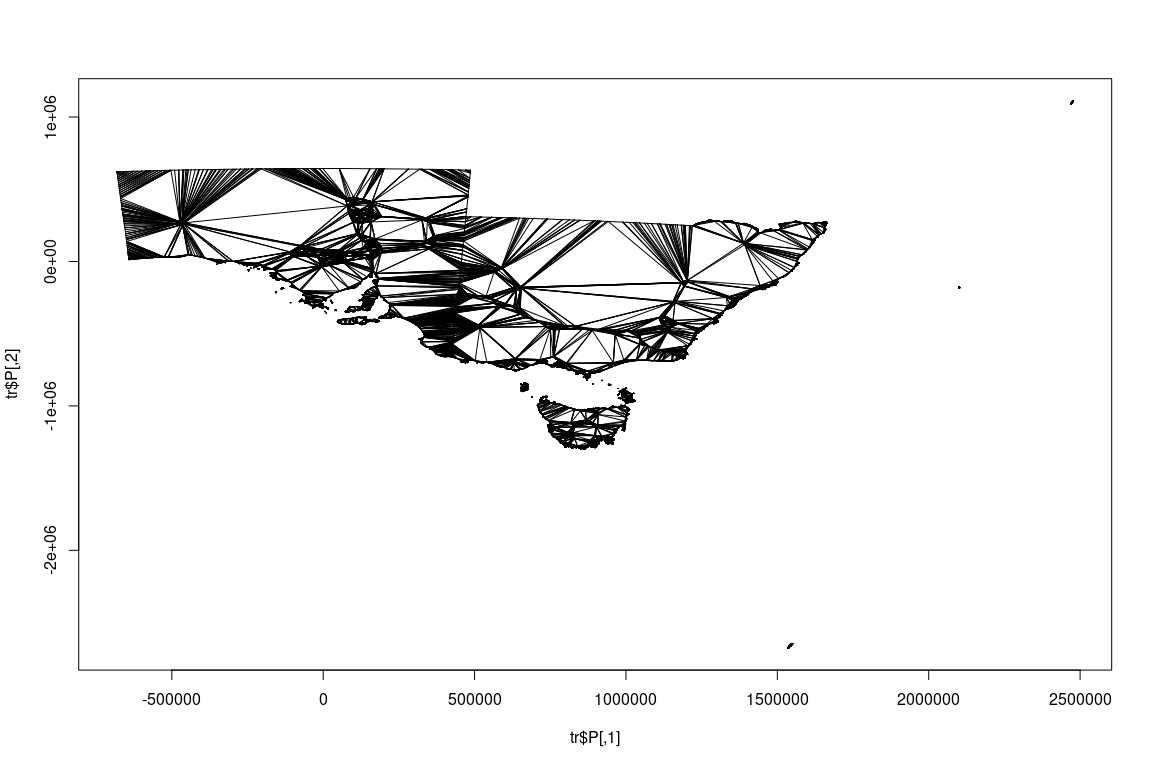
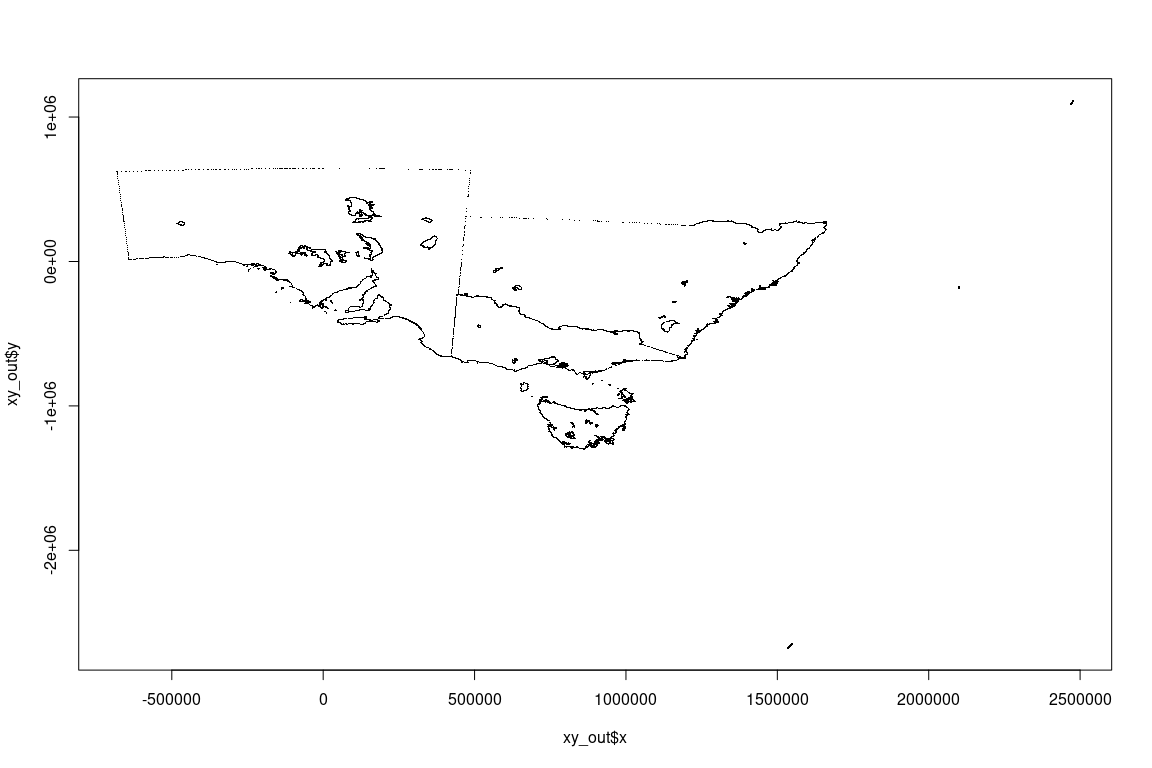
insert_mesh() now outputs x,y

Changed region(s): [[0.0938, 0.2188, 0.7188, 0.5938], [0.0, 0.4375, 0.0312, 0.5312], [0.5, 0.9375, 0.5625, 0.9688]]

diff --git a/src/insert_mesh.cpp b/src/insert_mesh.cpp
@@ -12,7 +12,7 @@ typedef CDT::Point Point;
 typedef CDT::Vertex_handle Vertex_handle;
 
 // [[Rcpp::export]]
-IntegerVector insert_mesh_cpp(NumericVector x,
+List insert_mesh_cpp(NumericVector x,
                           NumericVector y,
                           IntegerVector v0,
                           IntegerVector v1)
@@ -39,6 +39,19 @@ IntegerVector insert_mesh_cpp(NumericVector x,
   Rprintf("Number of vertices before: %i\n", cdt.number_of_vertices());
   // make it conforming Delaunay
   CGAL::make_conforming_Delaunay_2(cdt);
+
+  NumericVector xi = NumericVector(cdt.number_of_vertices());
+  NumericVector yi = NumericVector(cdt.number_of_vertices());
+
+  int i = 0;
+  for (auto itr = cdt.finite_vertices_begin(); itr != cdt.finite_vertices_end(); ++itr) {
+    //Rprintf("%f , %f\n", itr->point().x(), itr->point().y());
+    xi[i] = itr->point().x();
+    yi[i] = itr->point().y();
+    i++;
+  }
+
+
   Rprintf("Number of vertices after: %i\n", cdt.number_of_vertices());
-  return Rcpp::IntegerVector::create(NA_INTEGER);
+  return Rcpp::List::create(Named("x") = xi , _["y"] = yi);
 }

diff --git a/src/tri_xy.cpp b/src/tri_xy.cpp
@@ -22,8 +22,8 @@ typedef Face::Vertex_handle Fvertex_handle;
 // [[Rcpp::export]]
 IntegerVector tri_xy_cpp(NumericVector x, NumericVector y) {
   std::vector< std::pair<Point,int> > points;
-  for (int ipoint = 0; ipoint < x.length(); ipoint++){
-    points.push_back( std::make_pair( Point(x[ipoint], y[ipoint]), ipoint) );
+  for (int ip = 0; ip < x.length(); ip++){
+    points.push_back( std::make_pair( Point(x[ip], y[ip]), ip) );
   }
 
   Delaunay triangulation;
@@ -45,6 +45,7 @@ IntegerVector tri_xy_cpp(NumericVector x, NumericVector y) {
 
   return vi;
 }
+
 // [[Rcpp::export]]
 
 IntegerVector tri_xy1_cpp(NumericVector x, NumericVector y)

diff --git a/src/RcppExports.cpp b/src/RcppExports.cpp
@@ -25,7 +25,7 @@ BEGIN_RCPP
 END_RCPP
 }
 // insert_mesh_cpp
-IntegerVector insert_mesh_cpp(NumericVector x, NumericVector y, IntegerVector v0, IntegerVector v1);
+List insert_mesh_cpp(NumericVector x, NumericVector y, IntegerVector v0, IntegerVector v1);
 RcppExport SEXP _laridae_insert_mesh_cpp(SEXP xSEXP, SEXP ySEXP, SEXP v0SEXP, SEXP v1SEXP) {
 BEGIN_RCPP
     Rcpp::RObject rcpp_result_gen;

diff --git a/README.md b/README.md
@@ -6,10 +6,35 @@
 
 <!-- README.md is generated from README.Rmd. Please edit that file -->
 
+Work in progress to get constrained and conforming Delaunay
+triangulation for shapes in R with CGAL. We have
+
+-   point-only triangulation in `tri_xy()` - it’s fast
+-   segment-input constraints in `insert_mesh()` - only returns the
+    vertices, which might include new points
+-   constrained and conformal triangulations in-progress …
+
+We need:
+
+-   export of new vertex pool and its edge- or triangle-based indices
+-   proper inputs of nested polygon shapes
+-   robust dealing with segment and polygon soups, so that numeric
+    insertions are robust (and c.)
+
+We can now hit this more easily thanks to
+[cgal4h](https://CRAN.R-project.org/package=cgal4h) thanks to Ahmadou
+Dicko.
+
 `laridae` came out of a need for constrained triangulation for a
 topology-in-R project. That effort has moved on somewhat, proving the
 case by using `RTriangle` and then bedding down the normalization model
 in the `hypertidy/silicate` package.
+
+R now has [cgal4h](https://cran.r-project.org/package=cgal4h) providing
+the library infrastructure for CGAL and
+[euclid](https:://github.com/thomasp85/euclid) providing numerically
+robust geometric primitives (it’s unclear if laridae or whatever it
+becomes will use euclid).
 
 RTriangle is really fast, but it’s not as fast as CGAL. CGAL can also be
 used to update a triangulation, which means (I think) that we could
@@ -19,16 +44,18 @@ to update a mesh has a lot of applications, especially for neighbouring
 shapes, and for on-demand (extent or zoom dependent level of detail)
 tasks.
 
-We can now hit this more easily thanks to
-[cgal4h](https://CRAN.R-project.org/package=cgal4h) thanks to Ahmadou
-Dicko.
-
-The interest (which is miniscule …) in constrained triangulations is
+The interest (which seems miniscule …) in constrained triangulations is
 discussed here along with the overall landscape in R.
 
 <https://github.com/r-spatial/discuss/issues/6>
 
 ## Installation
+
+``` r
+remotes::install_github("hypertidy/laridae")
+## not universe ready yet
+#install.packages("laridae", repos = "https://hypertidy.r-universe.dev")
+```
 
 ## Triangulation
 
@@ -99,15 +126,15 @@ microbenchmark::microbenchmark(
 )
 #> Unit: microseconds
 #>                              expr      min       lq     mean   median       uq
-#>             ind_t <- tri_xy(x, y) 1003.037 1180.282 1210.524 1224.940 1259.092
-#>           ind_t1 <- tri_xy1(x, y)  957.943 1181.241 1204.754 1225.726 1251.130
-#>           ind_t2 <- tri_xy2(x, y)  980.168 1191.784 1219.096 1222.641 1260.760
-#>  RT <- RTriangle::triangulate(ps) 1653.278 1959.215 2072.064 2080.628 2167.966
+#>             ind_t <- tri_xy(x, y)  958.795 1127.766 1184.248 1202.551 1244.693
+#>           ind_t1 <- tri_xy1(x, y)  964.334 1111.205 1180.227 1187.096 1239.847
+#>           ind_t2 <- tri_xy2(x, y)  968.167 1116.894 1177.740 1199.422 1242.877
+#>  RT <- RTriangle::triangulate(ps) 1677.312 1972.573 2076.233 2078.806 2194.787
 #>       max neval cld
-#>  1395.601   100  a 
-#>  1350.535   100  a 
-#>  1422.179   100  a 
-#>  2314.977   100   b
+#>  1412.635   100  a 
+#>  1489.043   100  a 
+#>  1408.256   100  a 
+#>  2371.038   100   b
 length(ind_t)
 #> [1] 5961
 length(ind_t1)
@@ -134,8 +161,8 @@ par(p)
 
 ## Constrained triangulation
 
-Currently laridae only has “reporting” of the result. I can’t yet see
-how to
+Currently laridae only has vertex-output and “reporting” of the result.
+I can’t yet see how to
 
 -   get the vertex pool (it may have expanded given mesh properties,
     overlapping segments, etc.)
@@ -156,25 +183,31 @@ system.time(insert_constraint(X, Y, i0 , i1))
 #> Number of vertices before: 30835
 #> Number of vertices after: 31079
 #>    user  system elapsed 
-#>   0.369   0.000   0.369
+#>   0.368   0.000   0.367
 system.time(segment_constraint(sc))
 #> The number of resulting constrained edges is: 30843
 #>    user  system elapsed 
-#>   0.393   0.000   0.393
+#>   0.392   0.000   0.393
 
-system.time(insert_mesh(X, Y, i0 , i1))
+## insert_mesh actually returns the vertices (which might include new ones)
+system.time(xy_out <- insert_mesh(X, Y, i0 , i1))
 #> Number of vertices before: 30835
 #> Number of vertices after: 31079
 #>    user  system elapsed 
-#>   0.083   0.000   0.083
+#>   0.075   0.000   0.075
+plot(xy_out, pch = ".")
+```
 
+<img src="man/figures/README-mesh-input-1.png" width="100%" />
+
+``` r
 ## compare RTriangle, it's fast if we don't include pslg() time
 ps <- RTriangle::pslg(cbind(X, Y), S = cbind(i0, i1))
 system.time({
   tr <- RTriangle::triangulate(ps, D = TRUE)
 })
 #>    user  system elapsed 
-#>   0.078   0.000   0.078
+#>   0.079   0.000   0.079
 
 
 plot(tr$P, pch= ".")
@@ -182,7 +215,7 @@ segments(tr$P[tr$E[,1],1], tr$P[tr$E[,1],2],
          tr$P[tr$E[,2],1], tr$P[tr$E[,2],2])
 ```
 
-<img src="man/figures/README-mesh-input-1.png" width="100%" />
+<img src="man/figures/README-mesh-input-2.png" width="100%" />
 
 ``` r
 str(tr)
